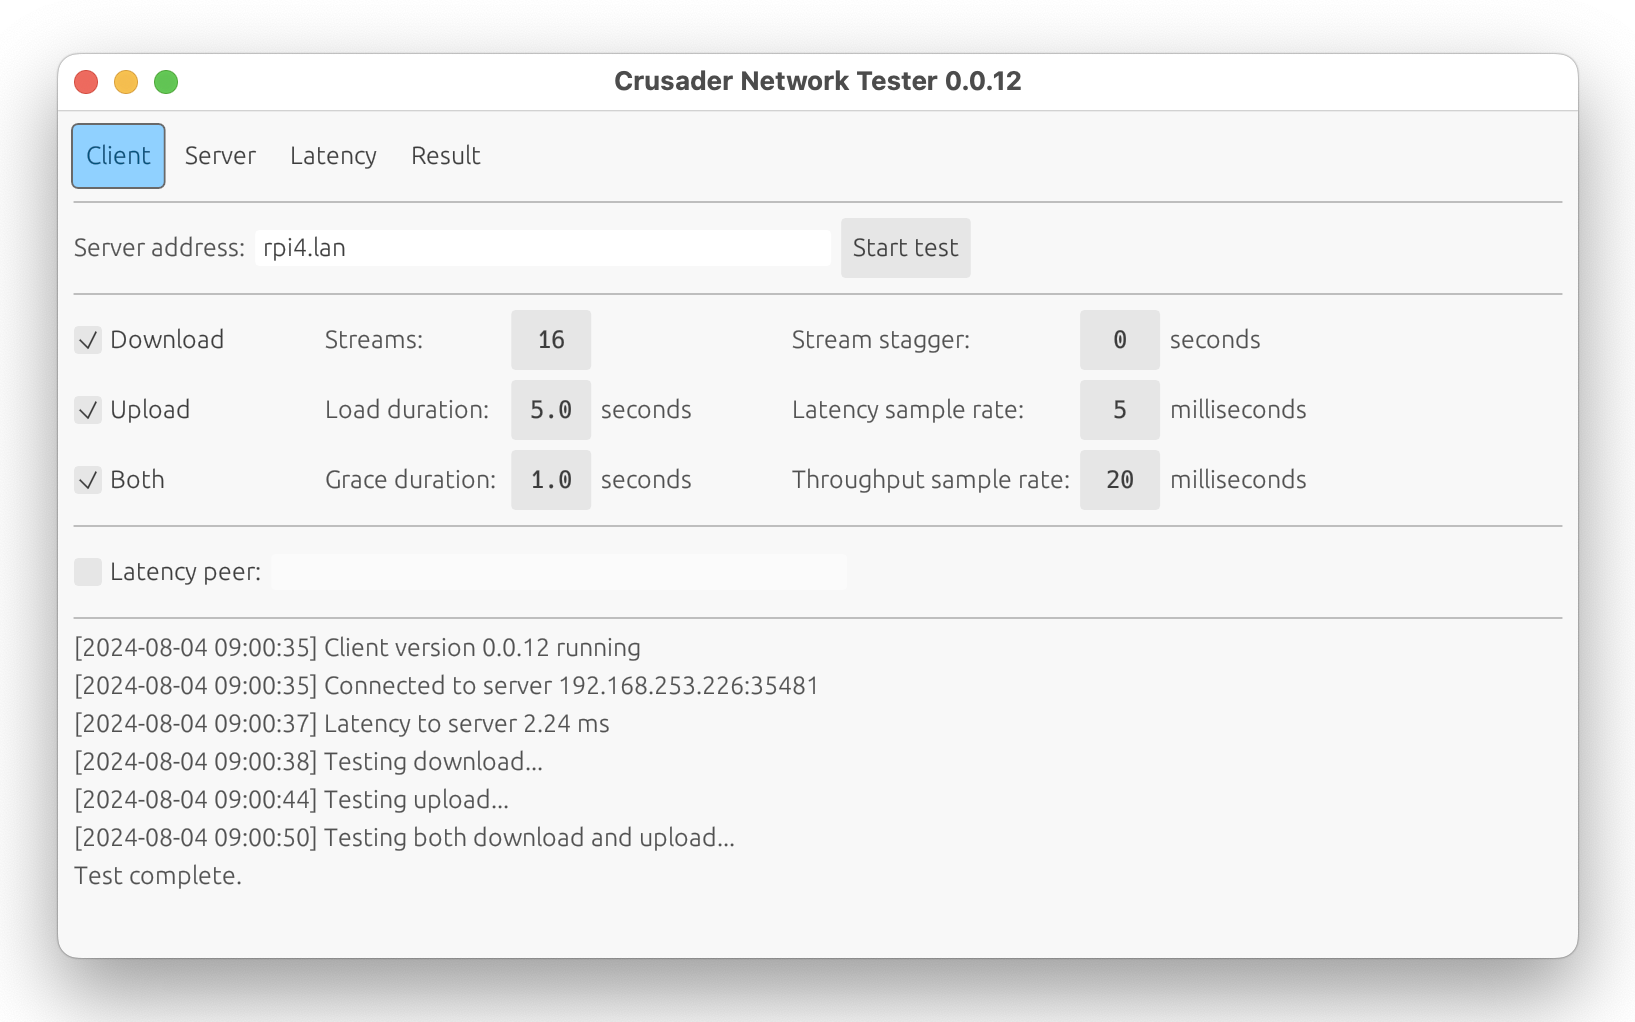
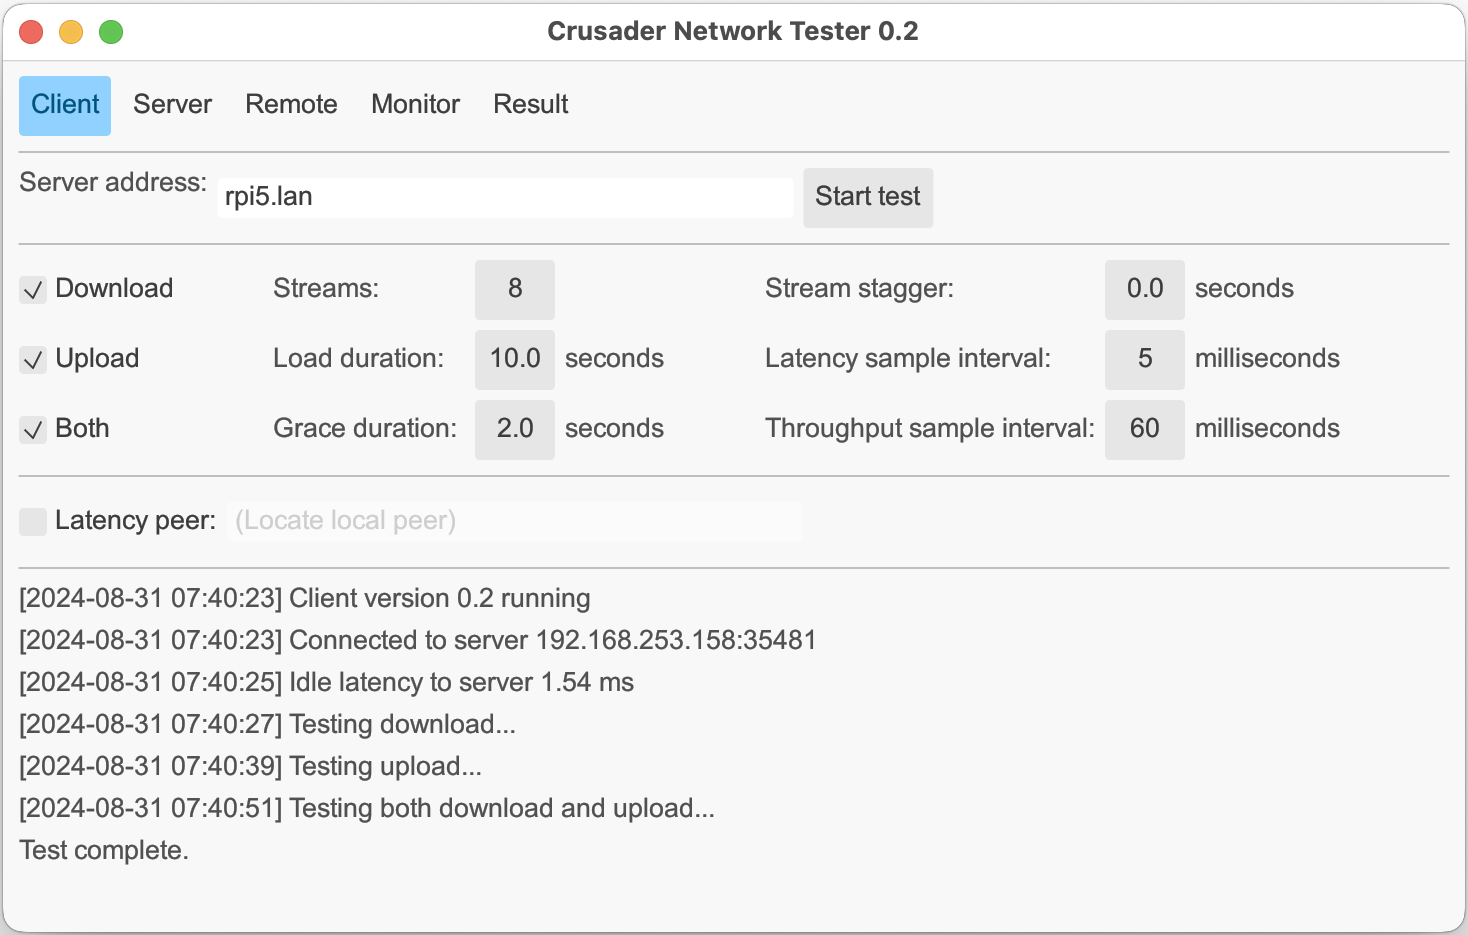
Update README for new (0.2) screenshots; (#54)
* Update README for new (0.1.0) screenshots;
Update README and CHANGELOG to pass markdownlint with minimal warnings

* Update README as requested

* Update for 0.2 screen shots;
Editorial tweaks on README

* Update to use 0.2 screen shots;
Rename "Result" image (from "Results")

* Remove unused images

* Update link to Remote server

* Expand on explanation for Crusader Screen Shtos.md;
remove other extraneous (old) screen shots.

* More editorial tweaks

diff --git a/README.md b/README.md
@@ -5,25 +5,27 @@
 [![MIT](https://img.shields.io/badge/license-MIT-blue.svg)](https://github.com/Zoxc/crusader/blob/master/LICENSE-MIT)
 [![Apache](https://img.shields.io/badge/license-Apache-blue.svg)](https://github.com/Zoxc/crusader/blob/master/LICENSE-APACHE)
 
-![Crusader Results Screenshot](./media/Crusader-Results.png)
+![Crusader Results Screenshot](./media/Crusader-Result.png)
 
 The **Crusader Network Tester** measures network rates and latency
 in the presence of upload and download traffic.
 It also incorporates a continuous latency tester for
 monitoring background responsiveness.
-It produces plots of the traffic rates,
-latency and packet loss.
-Crusader only uses TCP and UDP ports 35481 for its tests. Local server discovery uses UDP port 35483. The remote web server uses TCP port 35482.
+It produces plots of the traffic rates, latency and packet loss.
+Crusader uses TCP and UDP ports 35481 (only) for its tests.
+The remote web server option uses TCP port 35482.
+Local server discovery uses UDP port 35483.
 
 **Pre-built binaries** for Windows, Mac, Linux,
 and Android are available on the
-[Releases](https://github.com/Zoxc/crusader/releases) page. The GUI is not prebuilt for Linux and must be built from source.
+[Releases](https://github.com/Zoxc/crusader/releases) page.
+The GUI is not prebuilt for Linux and must be built from source.
+A **Docker container** for running the server may be found on
+[dockerhub](https://hub.docker.com/r/zoxc/crusader).
 
-A **Docker container** for running the server may be found on [dockerhub](https://hub.docker.com/r/zoxc/crusader).
-
-**Status:** The latest Crusader release is linked at the top.
-  See the [CHANGELOG.md](./CHANGELOG.md)
-  file for details.
+**Status:** The latest Crusader release version is shown above.
+  The pre-built binaries always provide the latest version.
+  See the [CHANGELOG.md](./CHANGELOG.md) file for details.
 
 ## Crusader GUI
 
@@ -35,59 +37,64 @@ a **client** that initiates the test.
 The Crusader GUI incorporates both the server and
 the client and allows you to interact with results.
 To use it, download the proper binary from the
-[Releases](https://github.com/Zoxc/crusader/releases) page
-then open it.
+[Releases](https://github.com/Zoxc/crusader/releases) page.
 
-The window below opens.
+When you open the `crusader-gui` you see this window.
 Enter the address of another computer that's
 running the Crusader server, then click **Start test**.
 When the test is complete, the **Result** tab shows a
 chart like the second image below.
-(An easy way to run the server is to start the Crusader GUI
-on another computer, then choose the **Server** tab.)
+(An easy way to run the server is to download a copy
+of the Crusader GUI
+to another computer, start it, then choose the **Server** tab.)
 
 ![Crusader Client Screenshot](./media/Crusader-Client.png)
 
-The Crusader GUI has four tabs:
+The Crusader GUI has five tabs:
 
 * **Client tab**
-  Runs the Crusader client program. 
+  Runs the Crusader client program.
   The options shown above are described in the
-  [Command-line options](#command-line-options) section.
+  [Command-line options](./#command-line-options) section.
 
 * **Server tab**
   Runs the Crusader server, listening for connections from other clients
 
-* **Latency tab**
-  Continually tests the latency to the selected
+* **Remote tab**
+  Starts a webserver (default port 35482).
+  A browser that connects to that port can initiate
+  a test to a Crusader server.
+  
+* **Monitor tab**
+  Continually displays the latency to the selected
   Crusader server until stopped.
 
 * **Result tab**
   Displays the result of the most recent client run
 
-## Understanding the Result Tab
+## The Result Tab
 
-![Crusader Results Screenshot](./media/Crusader-Results.png)
+![Crusader Results Screenshot](./media/Crusader-Result.png)
 
 A Crusader test creates three bursts of traffic.
-By default, it generates five seconds each of
+By default, it generates ten seconds each of
 download only, upload only, then bi-directional traffic.
 Each burst is separated by several seconds of idle time.
 
 The Crusader Result tab displays the results of the test with
 three plots (see image above):
 
-* The **Throughput** plot shows the bursts of traffic:
-green is download (from server to client),
+* The **Throughput** plot shows the bursts of traffic.
+Green is download (from server to client),
 blue is upload, and
 the purple line is the instantaneous
 sum of the download plus upload.
 
 * The **Latency** plot shows the corresponding latency.
+Green shows the  (uni-directional) time from the server to the client.
 Blue is the (uni-directional) time from the client to the server.
-Green shows the time from the server to the client (one direction).
 Black shows the sum from the client to the server
-and back (bi-directional).
+and back (round-trip time).
 
 * The **Packet Loss** plot has green and blue marks
 that indicate times when packets were lost.
@@ -96,9 +103,9 @@ that indicate times when packets were lost.
 
 ### Server
 
-To host a Crusader server, run this on the _server machine:
+To host a Crusader server, run this on the _server_ machine:
 
-```
+```sh
 crusader serve
 ```
 
@@ -106,15 +113,17 @@ crusader serve
 
 To start a test, run this on the _client machine_:
 
-```
+```sh
 crusader test <server-ip>
 ```
 
 ### Remote
 
-To host a web server allowing remote control of a Crusader client, run this:
+To host a web server that provides remote control of a Crusader client,
+run the command below, then connect to
+`http://ip-of-the-crusader-device:35482`
 
-```
+```sh
 crusader remote
 ```
 
@@ -171,43 +180,50 @@ crusader remote
           Use another server (peer) which will also measure the latency to the server independently of the client
 * **`-h, --help`**
           Print help (see a summary with '-h')
-          
+
 ## Building Crusader from source
 
 Use [pre-built binaries](https://github.com/Zoxc/crusader/releases)
 for everyday tests if available.
 
 To develop or debug Crusader, use the commands below
-to build required binaries. Executables will be placed in `src/target/release`
+to build the full set of binaries.
+Executables will be placed in `src/target/release`
 
-### Required dependencies:
-- A Rust and C toolchain.
+### Required dependencies
 
-### Additional GUI dependencies:
+* A Rust and C toolchain.
+
+### Additional dependencies for `crusader-gui`
+
 Development packages for:
-- `fontconfig`
+
+* `fontconfig`
 
 To install these on Ubuntu:
-```
+
+```sh
 sudo apt install libfontconfig1-dev
 ```
 
 ### Building
 
-
 To build the `crusader` command line executable:
+
 ```sh
 cd src
 cargo build -p crusader --release
 ```
 
 To build both command line and GUI executables:
+
 ```sh
 cd src
 cargo build --release
 ```
 
 To build a docker container running the server:
+
 ```sh
 cd docker
 docker build .. -t crusader -f server-static.Dockerfile
@@ -215,21 +231,36 @@ docker build .. -t crusader -f server-static.Dockerfile
 
 ## Troubleshooting
 
+* On macOS, the first time you double-click
+  the pre-built `crusader` or `crusader-gui` icon,
+  the OS requires you to use **System Preferences -> Security**
+  to permit Crusader to run.
+  
 * Crusader requires that TCP and UDP ports 35481 are open for its tests.
+  Crusader also uses ports 35482 for the remote webserver
+  and port 35483 for discovering other Crusader Servers.
   Check that your firewall is letting those ports through.
 
+* The [Releases](https://github.com/Zoxc/crusader/releases) page
+  has pre-built binaries.
+  You can build your own using the instructions above.
+  
 * Create a debug build by using `cargo build`
   (instead of `cargo build --release`).
   Binaries are saved in the _src/target/debug_ directory
 
-* To get the git commit hash of the current checkout,
-  use `git rev-parse --short master`
-
-* I sometimes see this message: 
-`Warning: Load termination timed out. There may be residual untracked traffic in the background.` 
+* Current binaries display the full commit hash in the log files.
+  To get the git commit hash of the current checkout,
+  use `git rev-parse HEAD`.
   
-  Should I be concerned? No. That may happen due to the TCP termination being lost or TCP incompatibilities between OSes. It's likely benign if you see throughput and latency drop to idle values after the tests in the graph. 
+* The message `Warning: Load termination timed out. There may be residual untracked traffic in the background.` is not harmful. It may happen due to the TCP termination being lost
+  or TCP incompatibilities between OSes.
+  It's likely benign if you see throughput and latency drop
+  to idle values after the tests in the graph.
 
-* The up and down latency measurement rely on a symmetric stable latency to the server. These values may be wrong if those assumption don't hold on test startup.
+* The up and down latency measurement rely on symmetric stable latency
+measurements to the server.
+These values may be wrong if those assumption don't hold on test startup.
 
-* The up and down latency measurement may slowly get out of sync due to clock drift. Clocks are currently only synchronized on test startup.
+* The up and down latency measurement may slowly get out of sync due to
+clock drift. Clocks are currently only synchronized on test startup.

diff --git a/CHANGELOG.md b/CHANGELOG.md
@@ -14,7 +14,8 @@ This file lists the changes that have occurred since January 2024 in the project
 ## 0.2 - 2024-08-29
 
 * Added support for local discovery of server and peers using UDP port 35483
-* The `test` command line option `--latency-peer` is renamed to `--latency-peer-server`. A new flag `--latency-peer` will instead search for a local peer.
+* The `test` command line option `--latency-peer` is renamed to `--latency-peer-server`.
+  A new flag `--latency-peer` will instead search for a local peer.
 * Improved error messages
 * Fix date/time display in remote web page
 * Rename the `Latency` tab to `Monitor`
@@ -33,7 +34,8 @@ This file lists the changes that have occurred since January 2024 in the project
 ## 0.1 - 2024-08-21
 
 * Added `crusader remote` command to start a web server listening on port 35482.
-   It allows starting tests on a separate machine and displays the resulting charts in the web page.
+   It allows starting tests on a separate machine and
+   displays the resulting charts in the web page.
 * Use system fonts in GUI
 * Improved error handling and error messages
 * Added `--idle` option to the client to test without traffic

diff --git a/media/Crusader Screen Shots.md b/media/Crusader Screen Shots.md
@@ -1,0 +1,23 @@
+# Crusader Screen Shots
+
+This page is useful to check the appearance of the screen shots.
+Use this process: get an image (screen shot) then
+trim off the drop shadow that the Mac captures.
+Then save the image in the _media_ directory.
+This page helps verify that the image retains the window border,
+but not the additional drop shadow.
+
+## Client
+![Options](./Crusader-Client.png)
+
+## Server
+![Options](./Crusader-Server.png)
+
+## Remote
+![Options](./Crusader-Remote.png)
+
+## Monitor
+![Options](./Crusader-Monitor.png)
+
+## Result
+![Options](./Crusader-Result.png)
